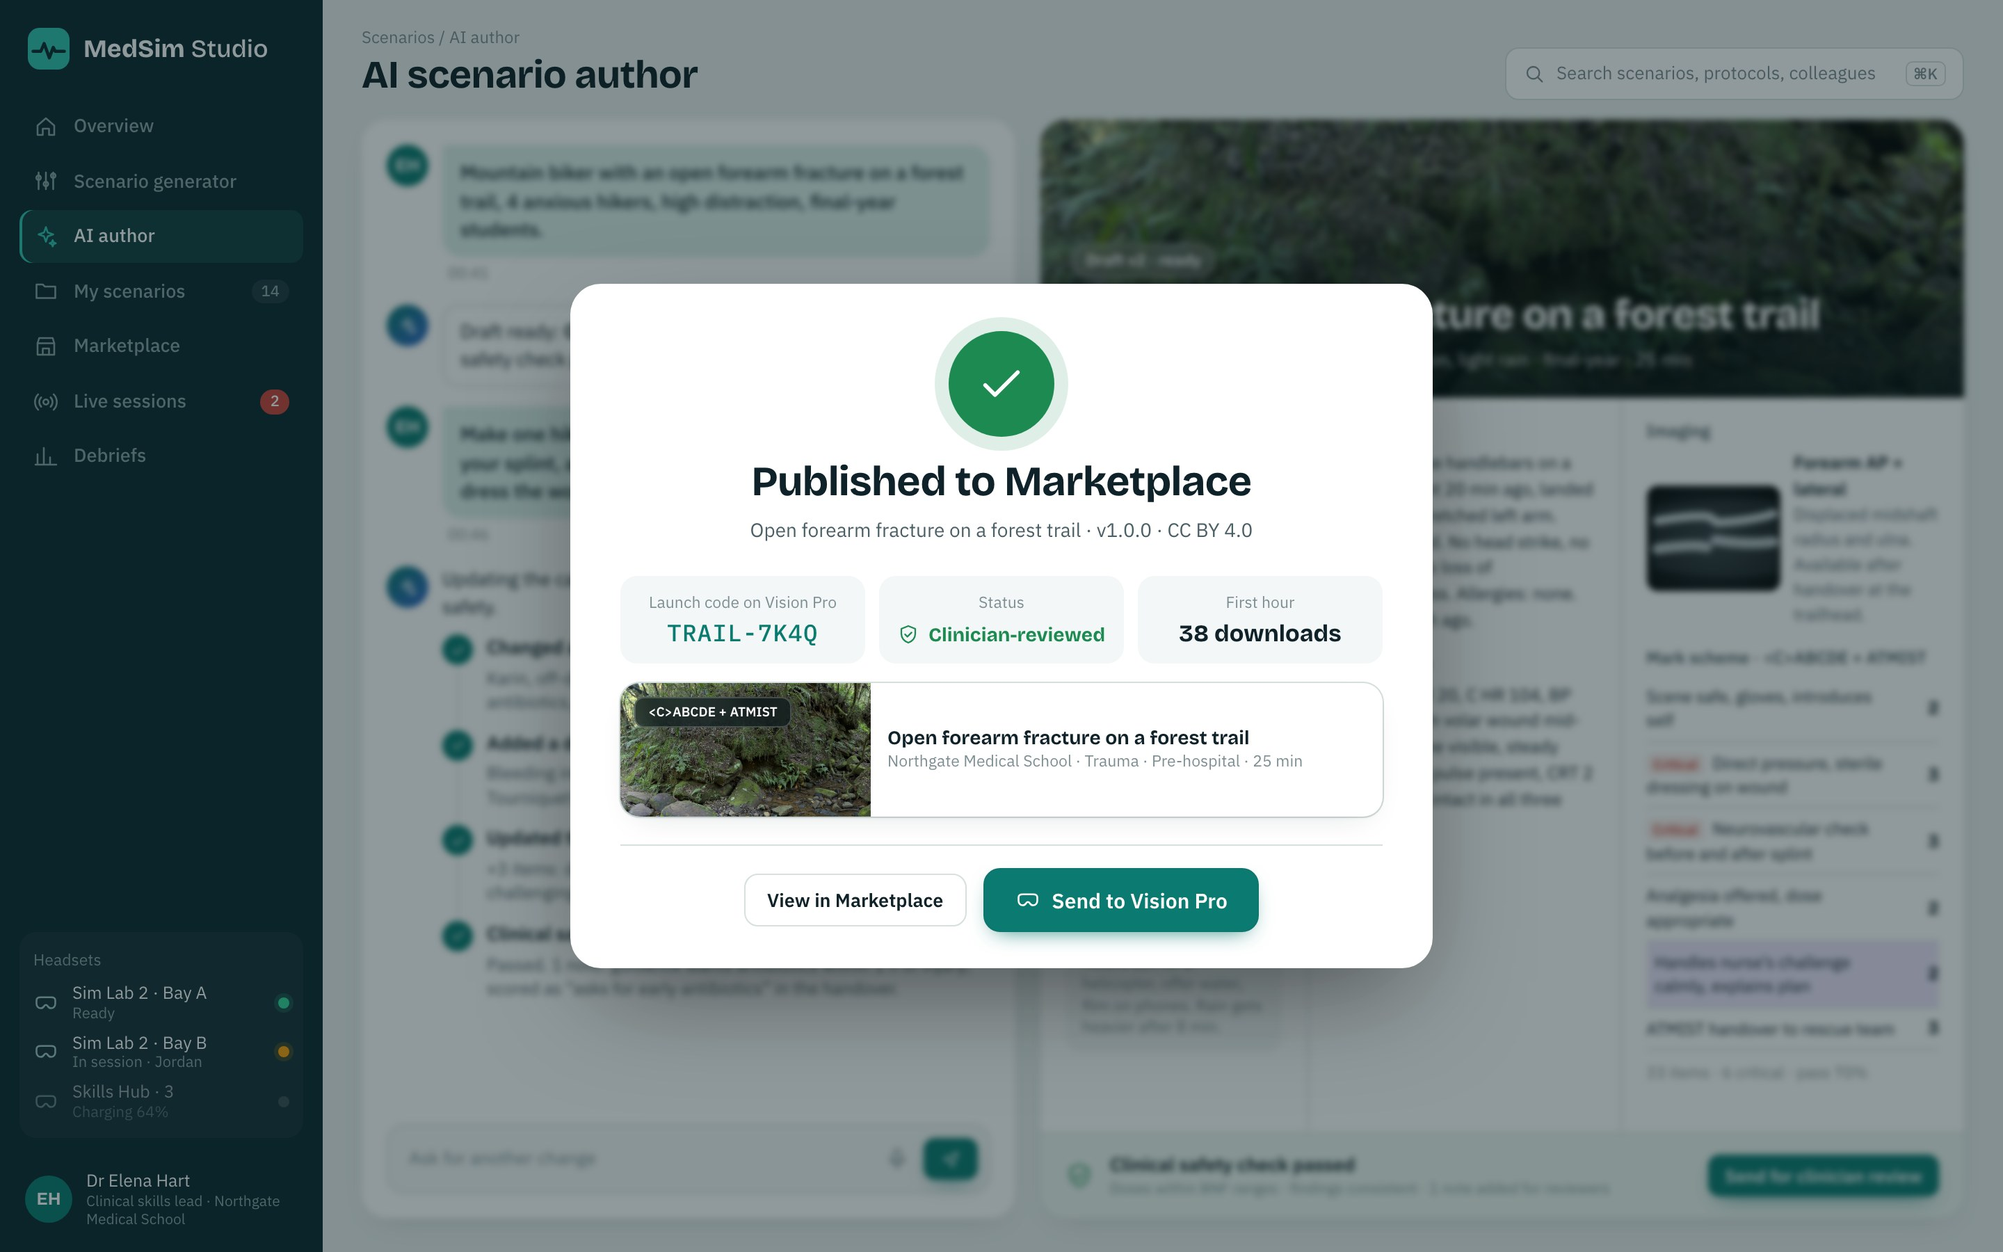
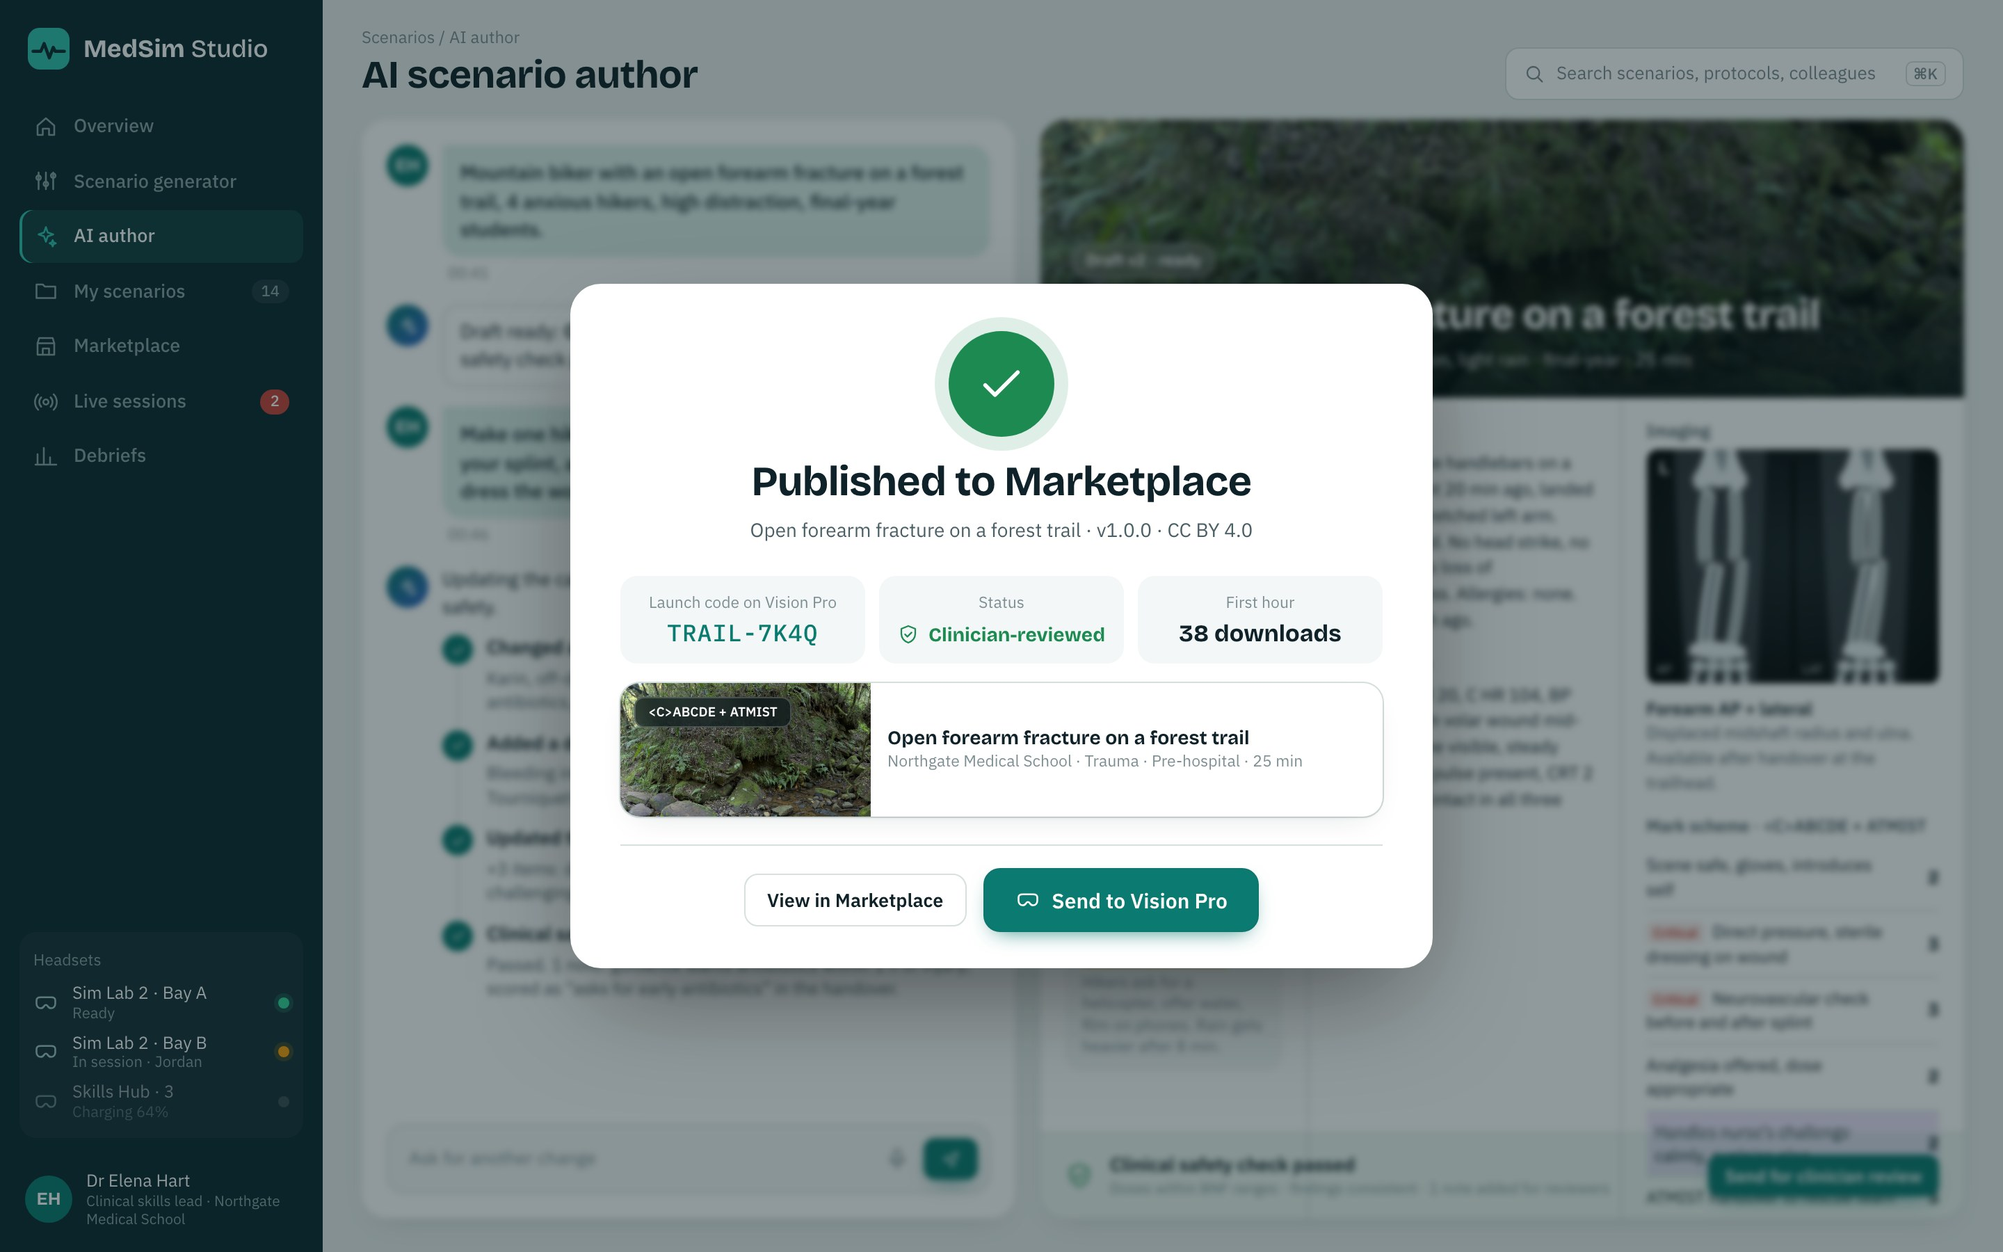
Studio web pitch: new app-render covers, real X-ray, consistent cast and headset states

Changed region(s): [[0.8125, 0.3422, 0.9688, 0.6222], [0.8125, 0.6222, 0.9688, 0.9644], [0.9375, 0.6533, 0.9688, 0.6844]]

diff --git a/studio/src/pitch/PitchStudio.tsx b/studio/src/pitch/PitchStudio.tsx
@@ -101,9 +101,9 @@ function Shell({ active, title, crumb, children, actions }: { active: string; ti
 /* ---------- generator ---------- */
 type Env = { id: string; name: string; pic: string; note: string }
 const ENVS: Env[] = [
-  { id: 'clinic', name: 'Clinic room', pic: shot('wrist-02-conversation'), note: 'Outpatient, X-ray on site' },
-  { id: 'scan', name: 'Antenatal scan room', pic: shot('us-01-greeting'), note: 'Ultrasound, couch, monitor' },
-  { id: 'road', name: 'Roadside', pic: shot('rt-01-roadside'), note: 'Urban junction, traffic' },
+  { id: 'clinic', name: 'Clinic room', pic: img('webstudio-cover-wrist-talk.jpg'), note: 'Outpatient, X-ray on site' },
+  { id: 'scan', name: 'Antenatal scan room', pic: img('webstudio-cover-us-card.jpg'), note: 'Ultrasound, couch, monitor' },
+  { id: 'road', name: 'Roadside', pic: img('webstudio-cover-rt-splint.jpg'), note: 'Urban junction, traffic' },
   { id: 'forest', name: 'Forest trail', pic: img('webstudio-forest-trail.jpg'), note: 'Remote, 40 min to road' },
   { id: 'amb', name: 'Ambulance', pic: shot('rt-04-ambulance'), note: 'Moving, noise, monitor' },
   { id: 'resus', name: 'Resus bay', pic: shot('rt-05-resus'), note: 'Trauma team, imaging' },
@@ -118,22 +118,22 @@ type Gen = {
 }
 const GEN: Record<'a' | 'b', Gen> = {
   a: {
-    title: 'Cyclist versus car: roadside to resus', cover: shot('rt-01-roadside'), envs: ['road', 'amb', 'resus'],
+    title: 'Cyclist versus car: roadside to resus', cover: img('webstudio-cover-rt-crew.jpg'), envs: ['road', 'amb', 'resus'],
     crowd: 6, stress: 4, time: 'Dusk', weather: 'Rain',
     persona: { init: 'J', name: 'Jordan', age: 34, sex: 'Male', mood: 'Frightened', lang: 'English', line: 'Bicycle courier, hit by a car pulling out. Deformed right forearm, bleeding wound.' },
     team: [['Sam', 'Paramedic', 'crew'], ['Lena', 'Technician', 'crew'], ['Dr Omar', 'ED consultant', 'crew'], ['Priya', 'Trauma nurse', 'crew']],
     diff: 'Final-year', protocol: 'cabcde',
     objectives: [['Scene safety and <C>ABCDE primary survey', true], ['Control catastrophic haemorrhage', true], ['Splint and reassess neurovascular status', true], ['ATMIST pre-alert and handover', true], ['Analgesia choice and dosing', false]],
-    minutes: 24, items: 32, scheme: [['<C> Catastrophic bleed', 4], ['A Airway, C-spine', 3], ['B Breathing', 4], ['C Circulation', 5], ['D Disability', 3], ['E Exposure', 3], ['ATMIST handover', 6], ['Team and bystanders', 4]], crowdLabel: 'Driver, two pedestrians, a shop owner, a cyclist friend, a man filming',
+    minutes: 24, items: 32, scheme: [['<C> Haemorrhage', 4], ['A Airway, C-spine', 3], ['B Breathing', 4], ['C Circulation', 5], ['D Disability', 3], ['E Exposure', 3], ['ATMIST handover', 6], ['Team and bystanders', 4]], crowdLabel: 'Driver, two pedestrians, a shop owner, a cyclist friend, a man filming',
     stressLabel: 'about every 15 s',
     disruptors: [['Bystanders question your decisions', true], ['Driver keeps apologising', true], ['Phone camera filming you', true], ['Siren and traffic noise', true]],
     face: ['The driver insists Jordan "just needs to stand up"', 'A bystander films and asks why you are not moving him', 'Sam asks for your call on the tourniquet at 02:10', 'Pre-alert to resus by radio, ATMIST format'],
   },
   b: {
-    title: 'Mid-pregnancy scan: Sarah, 20 weeks', cover: shot('us-02-head-bpd'), envs: ['scan'],
+    title: 'Mid-pregnancy scan: Sarah, 20 weeks', cover: img('webstudio-cover-us-hero.jpg'), envs: ['scan'],
     crowd: 1, stress: 1, time: 'Day', weather: 'Clear',
-    persona: { init: 'S', name: 'Sarah', age: 31, sex: 'Female', mood: 'Nervous', lang: 'English', line: 'Primary school teacher, first pregnancy, 20+2 weeks. Partner Daniel is with her.' },
-    team: [['Ruth', 'Sonographer', 'crew'], ['Daniel', 'Partner', 'by']],
+    persona: { init: 'S', name: 'Sarah', age: 31, sex: 'Female', mood: 'Nervous', lang: 'English', line: 'Primary school teacher, first pregnancy, 20 weeks. Partner Daniel is with her.' },
+    team: [['Ruth', 'Sonographer', 'crew']],
     diff: 'Year 3', protocol: 'anomaly',
     objectives: [['Consent and explain the scan in plain words', true], ['Obtain the standard mid-trimester views', true], ['Biometry: HC, AC, FL within range', true], ['Placental site and liquor', true], ['Break uncertain news kindly', false]],
     minutes: 18, items: 26, scheme: [['Consent, explanation', 5], ['Head and brain', 4], ['Face and spine', 3], ['Heart views', 4], ['Abdomen, kidneys', 4], ['Limbs, femur', 2], ['Placenta, liquor', 2], ['Report in notebook', 2]], crowdLabel: 'Partner in the room',
@@ -218,7 +218,7 @@ function Generator() {
                 </dl>
               </section>
               <section className="card">
-                <div className="card-h"><h3>Team</h3><span className="hint">{g.team.length} people</span></div>
+                <div className="card-h"><h3>Team</h3><span className="hint">{g.team.length} {g.team.length === 1 ? 'person' : 'people'}</span></div>
                 <ul className="team">{g.team.map(([n, r, k]) => <li key={n}><span className={`av av-sm av-${k}`}>{n.replace('Dr ', '')[0]}</span><b>{n}</b><small>{r}</small></li>)}</ul>
               </section>
             </div>
@@ -260,6 +260,38 @@ function Generator() {
     </Shell>
   )
 }
+
+/* Forearm radiograph (AP + lateral): cortex drawn as a light outer stroke over a darker medullary canal. */
+const Bone = ({ d, w }: { d: string; w: number }) => <><path d={d} stroke="#e8eff1" strokeWidth={w} fill="none" strokeLinecap="round" /><path d={d} stroke="#7d8b8f" strokeWidth={w * 0.42} fill="none" strokeLinecap="round" /></>
+function XrView({ x, lat }: { x: number; lat?: boolean }) {
+  const o = lat ? 3 : 0
+  return (
+    <g transform={`translate(${x} 0)`} filter="url(#xb)">
+      <path d="M11 0 Q30 -2 49 0 Q47 50 45 96 L16 96 Q13 50 11 0z" fill="#7d8a8e" opacity=".32" />
+      <path d="M24 -2 L36 -2 Q37 6 41 11 Q42 16 37 17 Q33 14 30 16 Q26 14 22 17 Q18 15 19 11 Q23 6 24 -2z" fill="#e3eaec" /><path d="M27 -2 L33 -2 Q33 6 31 10 Q29 6 27 -2z" fill="#8f9da1" />
+      <Bone d={`M${25 + o} 19 Q${23 + o} 32 ${24 + o} 46`} w={5.6} />
+      <Bone d={`M${28 + o} 49 Q${25 + o} 64 ${24 + o * 0.5} 79`} w={6.4} />
+      <Bone d={`M${36 - o} 18 Q${37 - o} 31 ${36 - o} 45`} w={5} />
+      <Bone d={`M${39 - o} 47 Q${38 - o} 64 ${35 - o} 79`} w={4.4} />
+      <path d={`M${21 + o} 46 l3 2 l3 -2.5 l3 2`} stroke="#0b0f10" strokeWidth="1.1" fill="none" />
+      <path d={`M${33 - o} 45 l2.5 2 l3 -2`} stroke="#0b0f10" strokeWidth="1" fill="none" />
+      <path d={`M${18 + o} 80 Q${26 + o * 0.5} 77 ${40 - o} 81 L${41 - o} 85 Q29 88 ${17 + o} 84z`} fill="#e6edef" />
+      {[0, 1, 2, 3].map(i => <ellipse key={i} cx={21 + i * 6} cy={89} rx={3} ry={2.6} fill="#d5dee1" />)}
+      {[0, 1, 2, 3].map(i => <path key={`m${i}`} d={`M${20 + i * 6.5} 92 L${18 + i * 7.5} 100`} stroke="#d5dee1" strokeWidth="3" />)}
+    </g>
+  )
+}
+const Xray = () => (
+  <svg className="xr" viewBox="0 0 120 96" aria-label="Forearm radiograph, AP and lateral">
+    <defs><filter id="xb"><feGaussianBlur stdDeviation=".45" /></filter><radialGradient id="xg" cx="50%" cy="45%" r="75%"><stop offset="0" stopColor="#1d2427" /><stop offset="1" stopColor="#030405" /></radialGradient></defs>
+    <rect width="120" height="96" fill="url(#xg)" />
+    <XrView x={0} /><XrView x={60} lat />
+    <line x1="60" y1="4" x2="60" y2="92" stroke="#000" strokeWidth="1.2" />
+    <text x="5" y="10" fill="#f2f5f6" fontSize="7" fontWeight="700" fontFamily="Arial, sans-serif">L</text>
+    <text x="4" y="92" fill="#cdd6d9" fontSize="4.6" fontFamily="Arial, sans-serif">AP</text>
+    <text x="64" y="92" fill="#cdd6d9" fontSize="4.6" fontFamily="Arial, sans-serif">LAT</text>
+  </svg>
+)
 
 /* ---------- AI author ---------- */
 type Step = { tool: string; label: string; detail: string; state: 'done' | 'run' | 'wait'; ms?: string }
@@ -330,7 +362,7 @@ function AuthorBody({ b }: { b: boolean }) {
               <h4>People</h4>
               <ul className="cast">
                 <li><span className="av av-sm av-pt">M</span><b>Mia, 27</b><small>Patient · in pain, scared about her arm</small></li>
-                <li><span className="av av-sm av-crew">T</span><b>Tom</b><small>Mountain rescue · carries the kit</small></li>
+                <li><span className="av av-sm av-crew">T</span><b>Tom and Ana</b><small>Mountain rescue · arrive at 04:00 with the kit</small></li>
                 {b
                   ? <li className="new"><span className="av av-sm av-by">K</span><b>Karin</b><small>Off-duty nurse · questions your splint</small><em>new</em></li>
                   : <li><span className="av av-sm av-by">K</span><b>Karin</b><small>Hiker · keeps asking for a helicopter</small></li>}
@@ -347,7 +379,7 @@ function AuthorBody({ b }: { b: boolean }) {
             </div>
             <div className="dr-block">
               <h4>Imaging</h4>
-              <div className="imaging"><svg className="xr" viewBox="0 0 76 60" aria-label="Forearm radiograph"><defs><radialGradient id="xg" cx="50%" cy="50%" r="70%"><stop offset="0" stopColor="#2a3236" /><stop offset="1" stopColor="#050708" /></radialGradient></defs><rect width="76" height="60" fill="url(#xg)" /><path d="M6 20 Q30 16 36 18 L40 21 Q60 20 72 16" stroke="#d9e2e4" strokeWidth="5" fill="none" strokeLinecap="round" opacity=".9" /><path d="M6 36 Q28 33 34 35 M39 31 Q58 34 72 32" stroke="#cfd9dc" strokeWidth="6" fill="none" strokeLinecap="round" opacity=".85" /><path d="M4 12 Q38 6 74 9 L74 50 Q38 55 4 47z" fill="#9fb0b5" opacity=".12" /></svg><p><b>Forearm AP + lateral</b>Displaced midshaft radius and ulna. Available after handover at the trailhead.</p></div>
+              <div className="imaging"><Xray /><p><b>Forearm AP + lateral</b>Displaced midshaft radius and ulna</p></div>
               <h4>Mark scheme · &lt;C&gt;ABCDE + ATMIST</h4>
               <table className="ms">
                 <tbody>
@@ -451,12 +483,12 @@ function Publish() {
 /* ---------- marketplace ---------- */
 type Item = { t: string; inst: string; cover: string; proto: string; rating: number; n: number; dl: string; mins: number; kind: string; reviewed: boolean; tags: string }
 const ITEMS: Item[] = [
-  { t: 'Wrist injury after a bicycle fall', inst: 'Northgate Medical School', cover: shot('wrist-02-conversation'), proto: 'OSCE mark scheme', rating: 4.8, n: 212, dl: '3.4k', mins: 15, kind: 'Clinic', reviewed: true, tags: 'History · Exam · X-ray' },
-  { t: 'Mid-pregnancy scan, 20 weeks', inst: 'St Brigid’s Simulation Centre', cover: shot('us-03-heart'), proto: 'Anomaly-scan checklist', rating: 4.9, n: 168, dl: '2.1k', mins: 18, kind: 'Antenatal', reviewed: true, tags: 'Ultrasound · Consent' },
+  { t: 'Wrist injury after a bicycle fall', inst: 'Northgate Medical School', cover: img('webstudio-cover-wrist-pain.jpg'), proto: 'OSCE mark scheme', rating: 4.8, n: 212, dl: '3.4k', mins: 15, kind: 'Clinic', reviewed: true, tags: 'History · Exam · X-ray' },
+  { t: 'Mid-pregnancy scan, 20 weeks', inst: 'St Brigid’s Simulation Centre', cover: img('webstudio-cover-us-card.jpg'), proto: 'Anomaly-scan checklist', rating: 4.9, n: 168, dl: '2.1k', mins: 18, kind: 'Antenatal', reviewed: true, tags: 'Ultrasound · Consent' },
   { t: 'Open forearm fracture on a forest trail', inst: 'Northgate Medical School', cover: img('webstudio-forest-mossy.jpg'), proto: '<C>ABCDE + ATMIST', rating: 4.7, n: 41, dl: '612', mins: 25, kind: 'Wilderness', reviewed: true, tags: 'Pre-hospital · Crowd' },
   { t: 'Older adult fall at home, daughter on the phone', inst: 'Lakeside University Hospital', cover: img('webstudio-home.jpg'), proto: 'OSCE mark scheme', rating: 4.6, n: 97, dl: '1.3k', mins: 20, kind: 'Home visit', reviewed: true, tags: 'Frailty · Family' },
-  { t: 'Splint fitting in the orthotics lab', inst: 'Harbourview College of Allied Health', cover: shot('wrist-05-orthotics-lab'), proto: 'OSCE mark scheme', rating: 4.5, n: 63, dl: '840', mins: 12, kind: 'Clinic', reviewed: false, tags: 'Procedure · Orthotics' },
-  { t: 'Resus handover: polytrauma, team of four', inst: 'Lakeside University Hospital', cover: shot('rt-05-resus'), proto: '<C>ABCDE + ATMIST', rating: 4.8, n: 134, dl: '1.9k', mins: 22, kind: 'Resus', reviewed: true, tags: 'Teamwork · Handover' },
+  { t: 'Splint fitting in the orthotics lab', inst: 'Harbourview College of Allied Health', cover: img('webstudio-cover-wrist-splint.jpg'), proto: 'OSCE mark scheme', rating: 4.5, n: 63, dl: '840', mins: 12, kind: 'Clinic', reviewed: false, tags: 'Procedure · Orthotics' },
+  { t: 'Cyclist down: splint and ATMIST pre-alert', inst: 'Lakeside University Hospital', cover: img('webstudio-cover-rt-splint.jpg'), proto: '<C>ABCDE + ATMIST', rating: 4.8, n: 134, dl: '1.9k', mins: 22, kind: 'Pre-hospital', reviewed: true, tags: 'Teamwork · Handover' },
 ]
 
 function Stars({ r }: { r: number }) {
@@ -486,7 +518,7 @@ function Marketplace() {
       {v === 'a' ? (
         <div className="mkt">
           <div className="feat">
-            <div className="feat-pic" style={{ backgroundImage: `url(${shot('rt-01-roadside')})` }} />
+            <div className="feat-pic" style={{ backgroundImage: `url(${img('webstudio-cover-rt-crew.jpg')})` }} />
             <div className="feat-t">
               <span className="pill">Featured journey · 3 places</span>
               <h2>Cyclist versus car: roadside to resus</h2>
@@ -505,10 +537,10 @@ function Marketplace() {
         <div className="detail">
           <div className="dt-main">
             <div className="dt-media">
-              <div className="dt-hero" style={{ backgroundImage: `url(${shot('us-02-head-bpd')})` }}>
+              <div className="dt-hero" style={{ backgroundImage: `url(${img('webstudio-cover-us-hero.jpg')})` }}>
                 <span className="badge-proto solid">Anomaly-scan checklist</span>
               </div>
-              <div className="dt-thumbs">{['us-01-greeting', 'us-03-heart', 'us-04-overview', 'us-05-feedback'].map(s => <div key={s} style={{ backgroundImage: `url(${shot(s)})` }} />)}</div>
+              <div className="dt-thumbs">{['us-probe', 'us-monitor', 'us-checklist'].map(s => <div key={s} style={{ backgroundImage: `url(${img(`webstudio-cover-${s}.jpg`)})` }} />)}</div>
               <div className="dt-reviews">
                 <blockquote>“Students finally practise talking while they scan. The partner’s questions are exactly what happens in clinic.”<cite>Midwifery lecturer, Lakeside University</cite></blockquote>
                 <blockquote>“The checklist debrief maps straight onto our sonography logbook.”<cite>Ultrasound tutor, Harbourview College</cite></blockquote>
@@ -527,8 +559,8 @@ function Marketplace() {
             <h3>Send to Vision Pro</h3>
             <p className="sub">Choose the headsets for Tuesday’s antenatal teaching block.</p>
             <ul className="devs">
-              <li className="on"><span className="cb"><I n="check" s={12} /></span><I n="goggles" s={22} /><div><b>Sim Lab 2 · Bay A</b><small>Downloading 72%</small><div className="bar"><i style={{ width: '72%' }} /></div></div></li>
-              <li className="on"><span className="cb"><I n="check" s={12} /></span><I n="goggles" s={22} /><div><b>Sim Lab 2 · Bay B</b><small>Installed · ready to play</small></div><span className="ready">Ready</span></li>
+              <li className="on"><span className="cb"><I n="check" s={12} /></span><I n="goggles" s={22} /><div><b>Sim Lab 2 · Bay A</b><small>Free · installs in about 1 min</small></div><span className="ready">Ready</span></li>
+              <li className="on"><span className="cb"><I n="check" s={12} /></span><I n="goggles" s={22} /><div><b>Sim Lab 2 · Bay B</b><small>In session · Jordan · installs after this run</small></div><span className="queued">Queued</span></li>
               <li><span className="cb" /><I n="goggles" s={22} /><div><b>Skills Hub · 3</b><small>Charging 64% · sends when on Wi-Fi</small></div></li>
             </ul>
             <div className="send-meta">

diff --git a/studio/src/pitch/pitch.css b/studio/src/pitch/pitch.css
@@ -226,8 +226,8 @@
 .cast small { font-size: 11.5px; line-height: 1.25; }
 .cast li.new { background: var(--by-soft); }
 .cast em { position: absolute; top: 4px; right: 6px; font-style: normal; font-size: 10px; font-weight: 700; color: var(--by); }
-.imaging { display: flex; gap: 10px; align-items: center; margin-bottom: 14px; }
-.xr { width: 96px; height: 76px; border-radius: 8px; flex: none; }
+.imaging { display: grid; gap: 8px; margin-bottom: 14px; }
+.xr { width: auto; height: 100px; aspect-ratio: 120 / 96; border-radius: 8px; display: block; }
 .imaging p { margin: 0 !important; display: grid; font-size: 12px !important; color: var(--ink-2); }
 .imaging p b { color: var(--ink); font-size: 12.5px; }
 .ms { width: 100%; border-collapse: collapse; font-size: 12px; }
@@ -348,7 +348,7 @@
 .dt-main { background: var(--surface); border-radius: 18px; box-shadow: var(--shadow); overflow: hidden; display: grid; grid-template-columns: 1.2fr 1fr; }
 .dt-media { display: flex; flex-direction: column; gap: 8px; padding: 10px; }
 .dt-hero { position: relative; height: 440px; border-radius: 12px; background: center / cover; padding: 12px; flex: none; }
-.dt-thumbs { display: grid; grid-template-columns: repeat(4, 1fr); gap: 8px; }
+.dt-thumbs { display: grid; grid-template-columns: repeat(3, 1fr); gap: 8px; }
 .dt-thumbs div { aspect-ratio: 16 / 10; border-radius: 8px; background: center / cover; }
 .dt-reviews { display: grid; grid-template-columns: 1fr 1fr; gap: 8px; margin-top: 4px; }
 .dt-text { padding: 22px 24px 18px 14px; display: flex; flex-direction: column; gap: 10px; }
@@ -403,3 +403,4 @@ cite { display: block; font-style: normal; font-size: 11px; color: var(--ink-3);
 .pv-scheme span { flex: 1; white-space: nowrap; overflow: hidden; text-overflow: ellipsis; }
 .pv-scheme i { height: 5px; border-radius: 3px; background: var(--teal); opacity: .7; }
 .pv-scheme b { width: 12px; text-align: right; color: var(--ink); }
+.queued { font-size: 11px; font-weight: 700; color: var(--warn, #d97706); }

diff --git a/assets/pitch/CREDITS-webstudio.md b/assets/pitch/CREDITS-webstudio.md
@@ -8,3 +8,7 @@
 | studio/src/pitch/fonts/webstudio-font-Bricolage.woff2 | Bricolage Grotesque, Google Fonts (latin subset) | SIL OFL 1.1 |
 | studio/src/pitch/fonts/webstudio-font-IBMPlexSans.woff2, webstudio-font-IBMPlexMono.woff2 | IBM Plex Sans / Mono, Google Fonts (latin subset) | SIL OFL 1.1 |
 | studio/public/pitch/shots/*.jpg | Downscaled copies of this repo's docs/screenshots/pitch, refreshed by studio/scripts/pitch_shots.mjs | project |
+
+## Studio cover crops (studio/public/pitch/webstudio-cover-*.jpg)
+
+Cropped from MedSimXR's own pitch renders (roadside, hero and clinic pitch runs, 14 Nov). Speech bubbles and HUD panels are cropped out. No third-party content beyond the CC0 assets credited in those agents' CREDITS files.
